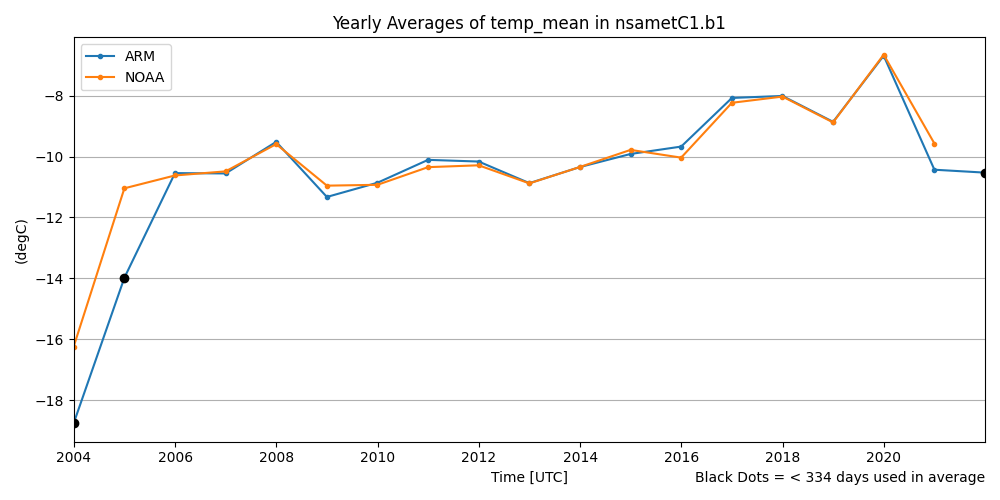
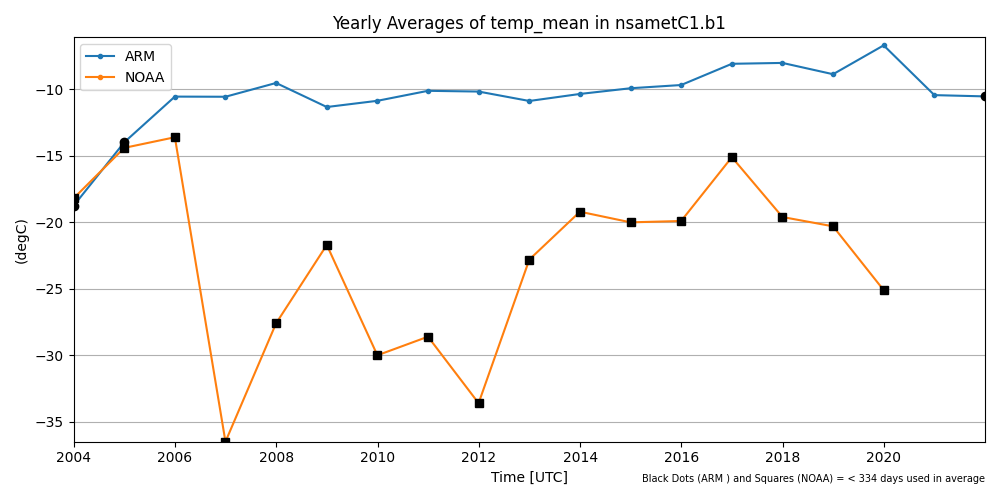
ENH: Latest updates, still refining code and results

diff --git a/plot_climatology.py b/plot_climatology.py
@@ -10,7 +10,7 @@ ds = 'nsametC1.b1'
 ds2 = 'nsa60noaacrnX1.b1'
 variable = 'temp_mean'
 variable2 = 'temperature'
-averaging = 'M'
+averaging = 'Y'
 units = 'degC'
 
 filename = './results/' + ds + '_' + variable + '_' + averaging + '.csv'
@@ -36,18 +36,24 @@ display.axes[0].set_ylabel('(' + units + ')')
 if averaging == 'M':
     idx = np.where(obj['n_samples'] < 28 * 24 * 60)
     #idx = np.where(obj['n_samples'] < 25 * 24) # For hourly averaged data
-    plt.text(1.0, -0.1, 'Black Dots = < 25 days used in average', transform=display.axes[0].transAxes,
+    idx2 = np.where(obj2['n_samples'] < 25 * 24) # For hourly averaged data
+    plt.text(1.0, -0.1, 'Black Dots (ARM ) and Squares (NOAA) = < 25 days used in average',
+             transform=display.axes[0].transAxes, fontsize=7,
              horizontalalignment='right')
     myFmt = mdates.DateFormatter('%b %Y')
 if averaging == 'Y':
     idx = np.where(obj['n_samples'] < 334 * 24 * 60)
     #idx = np.where(obj['n_samples'] < 334 * 24) # For hourly averaged data
-    plt.text(1.0, -0.1, 'Black Dots = < 334 days used in average', transform=display.axes[0].transAxes,
+    idx2 = np.where(obj2['n_samples'] < 334 * 24) # For hourly averaged data
+    plt.text(1.0, -0.1, 'Black Dots (ARM ) and Squares (NOAA) = < 334 days used in average',
+             transform=display.axes[0].transAxes, fontsize=7,
              horizontalalignment='right')
     myFmt = mdates.DateFormatter('%Y')
 
+print(obj2['time'].values)
 display.axes[0].xaxis.set_major_formatter(myFmt)
 display.axes[0].plot(obj['time'].values[idx], obj['mean'].values[idx], 'ko')
+display.axes[0].plot(obj2['time'].values[idx2], obj2['mean'].values[idx2], 'ks')
 display.axes[0].grid(axis='y')
 plt.legend()
 

diff --git a/arm_climatology.py b/arm_climatology.py
@@ -10,7 +10,7 @@ ds = 'nsametC1.b1'
 ds = 'nsa60noaacrnX1.b1'
 variable = 'temp_mean'
 variable = 'temperature'
-averaging = 'Y'
+averaging = 'M'
 site = ds[0:3]
 
 # Update this path to where your data are
@@ -20,7 +20,9 @@ years = np.unique(years)
 
 # Open a file to write the results out to and process each year
 f = open('./results/' + ds + '_' + variable + '_' + averaging + '.csv', 'w')
+years = list(years[0])
 for y in years:
+    print(y)
     if int(y) == int(datetime.now().year):
         continue
     files = glob.glob('/data/archive/'+site+'/'+ds+'/'+ds+'.'+y+'*cdf')
@@ -35,6 +37,7 @@ for y in years:
     # Produce specified averages and print out to a file
     count = obj.resample(time=averaging, skipna=True).count()
     obj = obj.resample(time=averaging, skipna=True).mean()
+    print(y, obj['time'].values)
     for i in range(len(obj['time'].values)):
         #print(','.join([str(obj['time'].values[i]), str(obj[variable].values[i]), str(count[variable].values[i])]))
         if (obj['time'].values[i].astype('datetime64[Y]').astype(int) + 1970) == int(y):

diff --git a/README.md b/README.md
@@ -15,14 +15,14 @@ Table 1. Minimum, maximum, and delta thresholds for each fixed site based on the
 
 ## Results
 ### North Slope of Alaska
-The NSA monthly temperatures (Fig. 1) show a notable period from 2014-2019 where the average temperatures over the winter were higher as compared to the data from 2005-2013.  This signature is also present in the NOAA Climate Reference Network (CRN) data (Fig. 2), aquired through ARM as well (NOOA Climate Reference Network).  It both datasets, here was a significant decrease in the monthly averages during the 2019-2020 winter.  In Figures 1 and 2, the larger black dot indicate months where there were less than 25 days worth of data used to produce that average and as such likely has some bias.  Data for these periods can be found in the [results](https://github.com/AdamTheisen/ARM-Climatologies/tree/main/results) area of this repository.
+The NSA monthly temperatures from both the ARM and NOAA (NOOA Climate Reference Network) sites (Fig. 1) show a notable period from 2014-2019 where the average temperatures over the winter were higher as compared to the data from 2005-2013.   It both datasets, here was a significant decrease in the monthly averages during the 2019-2020 winter.  As shown in Figure 1, the agreement between the ARM and NOAA monthly averages validates that the ARM and NOAA temperature records are consistent and the slight deviations that are present are due to missing periods of data (black circle and sqaures). Yearly averaged temperature are likewise, very similar as shown in Figure 2.  As noted, the increase in temperatures from 2014-2019 is visible in the yearly averages with that significant decrease in 2020 In Figures 1 and 2, the larger black dot indicate months where there were less than 25 days worth of data used to produce that average and as such likely has some bias.  Data for these periods can be found in the [results](https://github.com/AdamTheisen/ARM-Climatologies/tree/main/results) area of this repository.
 
 
-![NSA Monthly Average Temperatures](https://github.com/AdamTheisen/ARM-Climatologies/blob/main/images/nsametC1.b1_temp_mean_M.png)
-Figure 1. Monthly average temperatures for the NSA site.
+![ARM and NOAA Monthly Average Temperatures](https://github.com/AdamTheisen/ARM-Climatologies/blob/main/images/nsametC1.b1_temp_mean_nsa60noaacrnX1.b1_temperature_M.png)
+Figure 1. Monthly average temperatures from ARM (blue) and NOAA (orange).
 
-![NOOA CRN Monthly Average Temperatures](https://github.com/AdamTheisen/ARM-Climatologies/blob/main/images/nsa60noaacrnX1.b1_temperature_M.png)
-Figure 2. Monthly average temperatures for the NOAA CRN site. Note, it is a slightly different time range from Figure 1.
+![ARM and NOAA Yearly Average Temperatures](https://github.com/AdamTheisen/ARM-Climatologies/blob/main/images/nsametC1.b1_temp_mean_nsa60noaacrnX1.b1_temperature_Y.png)
+Figure 2. Yearlly average temperatures from ARM (blue) and NOAA (orange).
 
 
 
